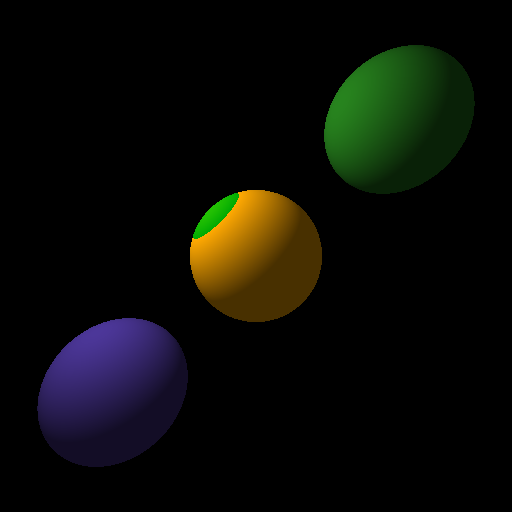
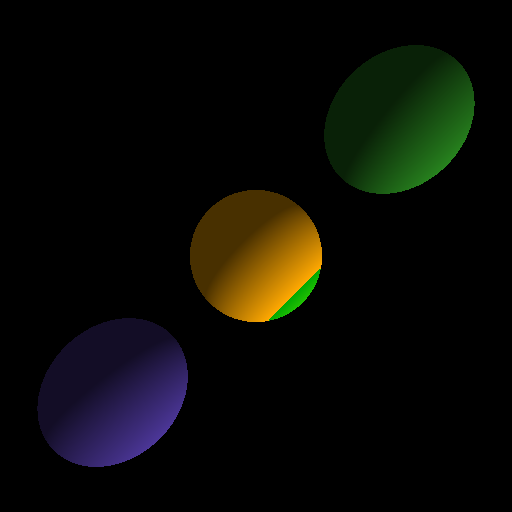
fixed translated light ray which was wrong. Just taking the direction was enough

Changed region(s): [[0.0625, 0.625, 0.375, 0.9375], [0.625, 0.0625, 0.9375, 0.375], [0.375, 0.375, 0.625, 0.625]]

diff --git a/raytracer/src/main/java/at/ac/univie/unet/a01638800/raytracer/phong/PhongShader.java b/raytracer/src/main/java/at/ac/univie/unet/a01638800/raytracer/phong/PhongShader.java
@@ -1,7 +1,6 @@
 package at.ac.univie.unet.a01638800.raytracer.phong;
 
 import at.ac.univie.unet.a01638800.raytracer.geometricobjects.Color;
-import at.ac.univie.unet.a01638800.raytracer.geometricobjects.Normal;
 import at.ac.univie.unet.a01638800.raytracer.geometricobjects.Vector;
 import at.ac.univie.unet.a01638800.raytracer.intersection.Intersection;
 import at.ac.univie.unet.a01638800.raytracer.scene.MaterialSolid;
@@ -55,10 +54,9 @@ public class PhongShader {
             ParallelLight parallelLight = (ParallelLight) this.lights.getLights().get(1);
 
             pointToLightVector = new Vector(
-                    intersection.getIntersectionPoint(),
-                    -Double.parseDouble(parallelLight.getDirection().getX()),
-                    -Double.parseDouble(parallelLight.getDirection().getY()),
-                    -Double.parseDouble(parallelLight.getDirection().getZ())
+                    Double.parseDouble(parallelLight.getDirection().getX()),
+                    Double.parseDouble(parallelLight.getDirection().getY()),
+                    Double.parseDouble(parallelLight.getDirection().getZ())
             );
             pointToLightVector.invert();
 
